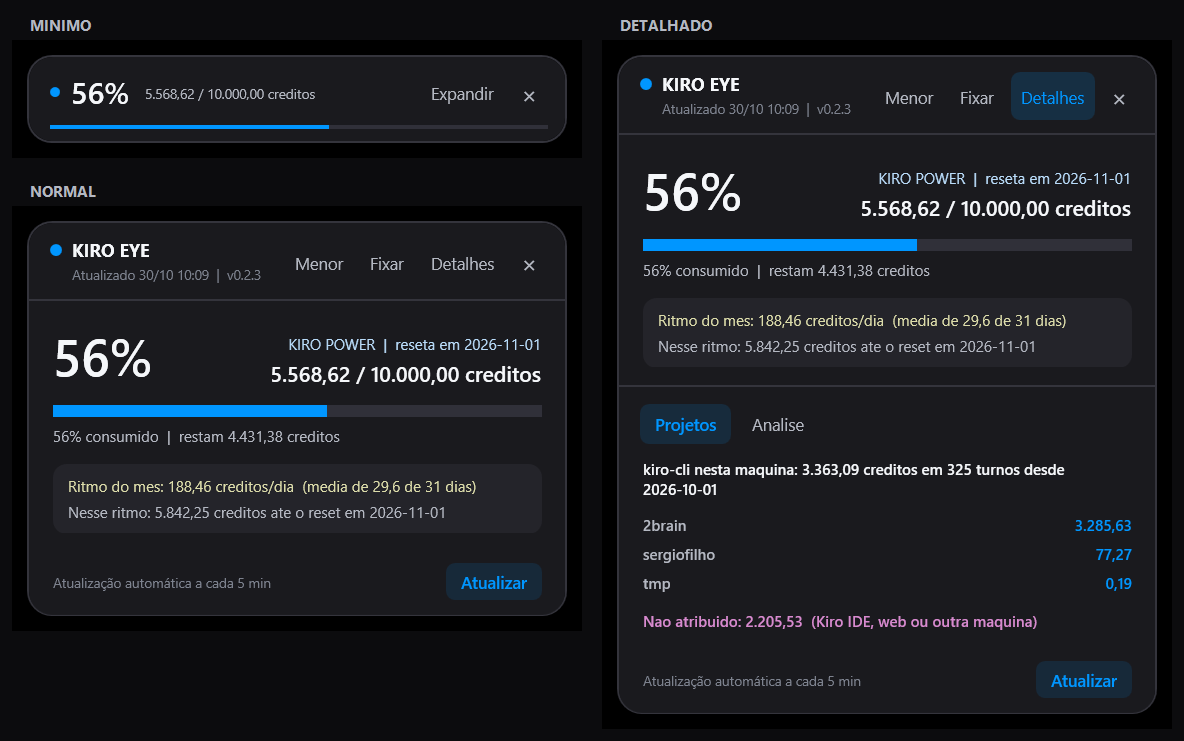
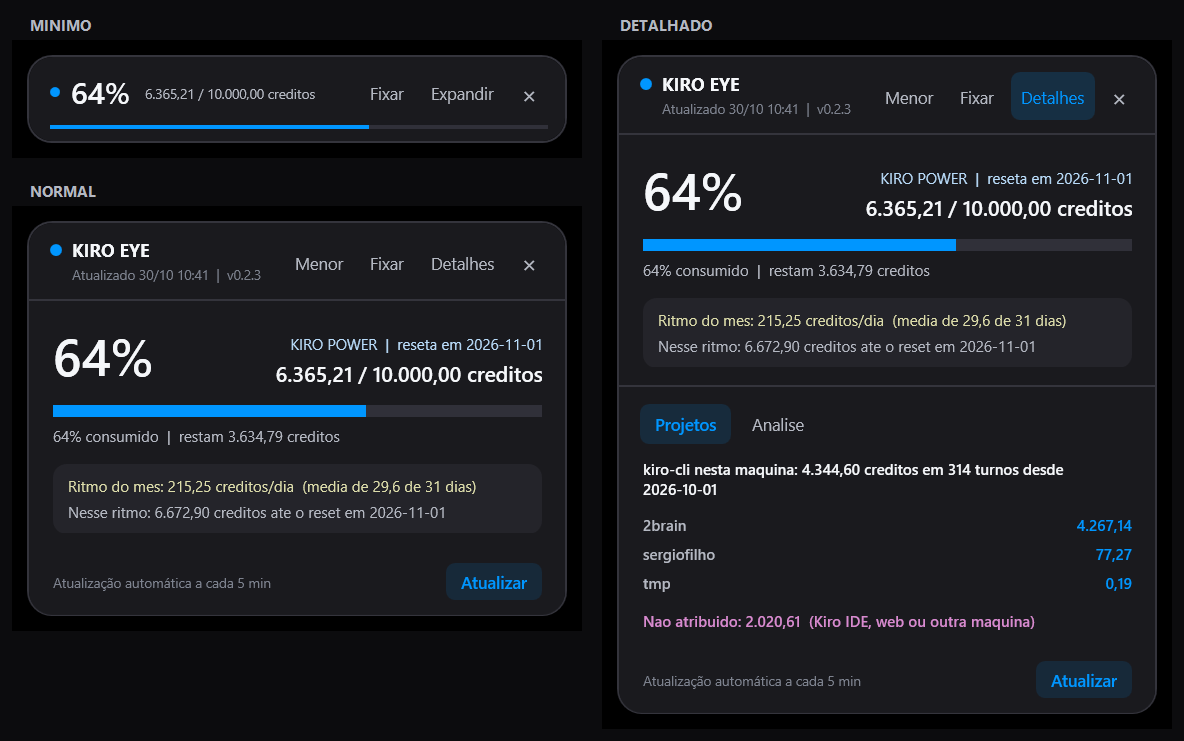
Permite fixar o widget no modo minimo

diff --git a/windows/MainWindow.xaml b/windows/MainWindow.xaml
@@ -505,6 +505,7 @@
                             <ColumnDefinition Width="*" />
                             <ColumnDefinition Width="Auto" />
                             <ColumnDefinition Width="Auto" />
+                            <ColumnDefinition Width="Auto" />
                         </Grid.ColumnDefinitions>
                         <Border x:Name="MinimalDragHandle"
                                 Grid.Column="0"
@@ -530,13 +531,18 @@
                                            Text="Carregando..." />
                             </StackPanel>
                         </Border>
+                        <ToggleButton x:Name="MinimalPinButton"
+                                      Grid.Column="1"
+                                      Content="Fixar"
+                                      ToolTip="Manter sobre outras janelas"
+                                      Style="{StaticResource HeaderToggleStyle}" />
                         <Button x:Name="MinimalExpandButton"
-                                Grid.Column="1"
+                                Grid.Column="2"
                                 Content="Expandir"
                                 ToolTip="Mostrar o cartao normal"
                                 Style="{StaticResource HeaderButtonStyle}" />
                         <Button x:Name="MinimalCloseButton"
-                                Grid.Column="2"
+                                Grid.Column="3"
                                 Content="&#x00D7;"
                                 ToolTip="Ocultar na bandeja"
                                 FontSize="16"

diff --git a/docs/superpowers/specs/2026-10-30--kiro-eye-desktop-widget-design.md b/docs/superpowers/specs/2026-10-30--kiro-eye-desktop-widget-design.md
@@ -33,7 +33,7 @@ de arraste. **Menor** abre o modo mínimo; **Detalhes** alterna entre normal e
 detalhado.
 
 O modo mínimo terá sua própria alça de arraste, o percentual, o consumo no
-formato `usado / cota`, uma barra fina, **Expandir** e **Fechar**. Os três modos
+formato `usado / cota`, uma barra fina, **Fixar**, **Expandir** e **Fechar**. Os três modos
 também estarão disponíveis no menu da bandeja.
 
 A área principal exibirá o percentual como número de maior hierarquia, seguida pelo consumo total, barra de progresso, saldo e duas linhas curtas para ritmo e projeção. Em falha, essa área será substituída pelo painel de erro; números antigos não continuarão visíveis.

diff --git a/docs/superpowers/plans/2026-10-30-kiro-eye-desktop-widget.md b/docs/superpowers/plans/2026-10-30-kiro-eye-desktop-widget.md
@@ -180,7 +180,7 @@ Expected: todos passam.
 
 - [x] **Step 1: Escrever testes RED para o modo mínimo**
 
-Exigir `MinimalPanel`, `MinimalDragHandle`, `MinimalPercentText`, `MinimalCreditsText`, `MinimalUsageBar`, `MinimalExpandButton`, `MinimalCloseButton` e `MinimizeButton`. Verificar percentual, consumo/cota e nível da barra.
+Exigir `MinimalPanel`, `MinimalDragHandle`, `MinimalPercentText`, `MinimalCreditsText`, `MinimalUsageBar`, `MinimalPinButton`, `MinimalExpandButton`, `MinimalCloseButton` e `MinimizeButton`. Verificar percentual, consumo/cota e nível da barra.
 
 - [x] **Step 2: Escrever testes RED para transições e persistência**
 

diff --git a/README.md b/README.md
@@ -16,7 +16,7 @@ O mesmo widget tem três tamanhos:
 - Arraste pela área **KIRO EYE** ou pela faixa mínima. A posição é lembrada.
 - **Menor** muda do cartão normal para a faixa mínima; **Expandir** faz o inverso.
 - **Detalhes** alterna entre os modos normal e detalhado.
-- **Fixar** mantém o widget sobre outras janelas; **×** o esconde na bandeja.
+- **Fixar**, disponível nos modos normal e mínimo, mantém o widget sobre outras janelas; **×** o esconde na bandeja.
 - O menu da bandeja oferece os três modos, atualização, fixação e encerramento.
 
 Posição, modo de visualização e fixação ficam em
